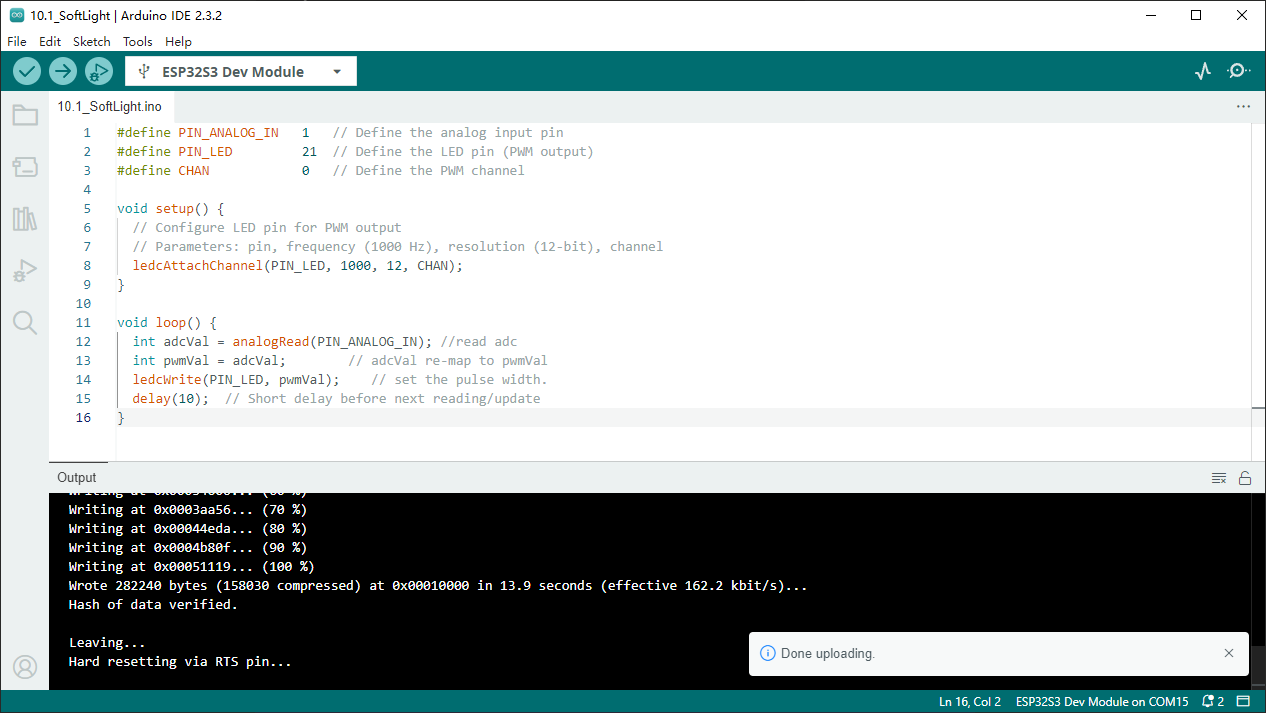
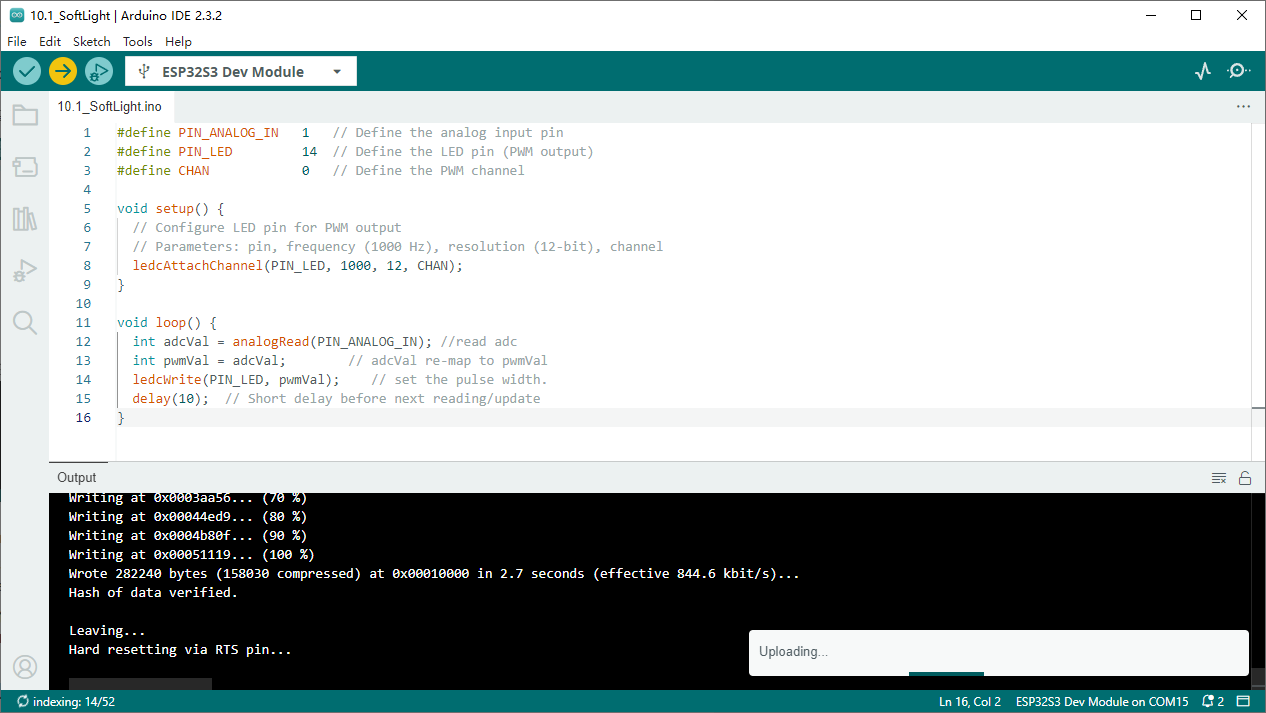
fix some bug

diff --git a/docs/source/1.C_Tutorial/9_touch_sensor.rst b/docs/source/1.C_Tutorial/9_touch_sensor.rst
@@ -56,14 +56,15 @@ Sketch
 ^^^^^^^
 **Sketch_09.2_TouchLamp**
 
-.. image:: img/software/9.2.png
+.. image:: img/phenomenon/9.2.png
     
 Download the code to ESP32-S3 WROOM, open the serial monitor, and set the baud 
 rate to 115200. Touch jumper with hand. As shown in the following figure,
 
 .. image:: img/phenomenon/9.2-1.png
 
-.. image:: img/phenomenon/9.2.png
+
+.. image:: img/software/9.2.png
 
 With a touch pad, the state of the LED changes with each touch, and the detection 
 state of the touch sensor is printed in the serial monitor.
@@ -74,33 +75,41 @@ The following is the program code:
 
 .. code-block:: C
 
-    #define PIN_LED     21
-    #define PRESS_VAL   200000	  //Set a threshold to judge touch
-    #define RELEASE_VAL 60000	    //Set a threshold to judge release
+    #define PIN_LED     21         // Define the LED pin
+    #define TOUCH_PIN   14          // Use a valid touch pin on ESP32-S3
+    #define PRESS_VAL   50000      // This threshold may need adjustment
+    #define RELEASE_VAL 65000      // This threshold may need adjustment
 
-    bool isProcessed = false;
+    bool isProcessed = false;      // Flag to track if touch event has been processed
+
     void setup() {
-    Serial.begin(115200);
-    pinMode(PIN_LED, OUTPUT);
+    Serial.begin(115200);        // Initialize serial communication
+    pinMode(PIN_LED, OUTPUT);    // Set LED pin as output
     }
+
     void loop() {
-    if (touchRead(T14) > PRESS_VAL) {
-        if (!isProcessed) {
-        isProcessed = true;
-        Serial.println("Touch detected! ");
-        reverseGPIO(PIN_LED);
+    int touchValue = touchRead(TOUCH_PIN);  // Read touch sensor value
+    //Serial.println(touchValue);  // Print touch value for debugging
+
+    if (touchValue < PRESS_VAL) {  // Note: Lower value indicates touch
+        if (!isProcessed) {          // If touch hasn't been processed yet
+        isProcessed = true;        // Mark as processed
+        Serial.println("Released!");
+        reverseGPIO(PIN_LED);      // Toggle LED state
         }
     }
-    if (touchRead(T14) < RELEASE_VAL) {
-        if (isProcessed) {
-        isProcessed = false;
-        Serial.println("Released! ");
+    if (touchValue > RELEASE_VAL) {  // Touch released
+        if (isProcessed) {             // If a touch was previously processed
+        isProcessed = false;         // Reset processed flag
+        Serial.println("Touch detected!");
         }
     }
+    
+    delay(50);  // Short delay to prevent too frequent readings
     }
 
     void reverseGPIO(int pin) {
-    digitalWrite(pin, !digitalRead(pin));
+    digitalWrite(pin, !digitalRead(pin));  // Toggle the state of the given pin
     }
 
 

diff --git a/docs/source/1.C_Tutorial/24_tcpip.rst b/docs/source/1.C_Tutorial/24_tcpip.rst
@@ -31,8 +31,8 @@ Install ControlP5.
 
 .. image:: img/other/processing0.png
 
-Open the “Super_Starter_Kit_for_ESP32_S3\Sketches\Sketches\Sketch_24.1_
-WiFiClient\sketchWiFi\sketchWiFi.pde”, and click "Run".
+Open the “Super_Starter_Kit_for_ESP32_S3\\Sketches\\Sketches\\Sketch_24.1_
+WiFiClient\\sketchWiFi\\Processing_wifi.pde”, and click "Run".
 
 .. image:: img/other/processing4.png
 
@@ -76,7 +76,7 @@ Connect
 
 Sketch
 ^^^^^^^
-Before running the Sketch, please open “sketchWiFi.pde.” first, and click “Run”.
+Before running the Sketch, please open “Processing_wifi.pde.” first, and click “Run”.
 
 .. image:: img/software/24.3.png
 
@@ -90,7 +90,7 @@ owing information based on "LOCAL IP" and "LOCAL PORT" in the figure above.
 
 .. image:: img/software/24.1.png
 
-REMOTE_IP needs to be filled in according to the interface of sketchWiFi.pde. 
+REMOTE_IP needs to be filled in according to the interface of Processing_wifi.pde. 
 Taking this tutorial as an example, its REMOTE_IP is “192.168.2.112”. Generally, 
 by default, the ports do not need to change its value.
 
@@ -188,6 +188,7 @@ Connect ESP32-S3 to the computer using a USB cable.
 Sketch
 ^^^^^^^
 Before running Sketch, please modify the contents of the box below first.
+
 **Sketch_24.2_As_Server**
 
 .. image:: img/software/24.2.png
@@ -200,8 +201,8 @@ router, press the reset button as shown below and wait for ESP32-S3 to run again
 
 .. image:: img/phenomenon/24.2.png
 
-Processing： Open the “Super_Starter_Kit_for_ESP32_S3\Sketches\Sketches
-\Sketch_24.2_WiFiServer\ sketchWiFi\sketchWiFi.pde”. Based on the messages printed 
+Processing： Open the “Super_Starter_Kit_for_ESP32_S3\\Sketches\\Sketches
+\\Sketch_24.2_WiFiServer\\sketchWiFi\\Processing_wifi.pde”. Based on the messages printed 
 by the serial monitor, enter correct IP address and serial port in Processing to 
 establish connection and make communication.
 

diff --git a/docs/source/1.C_Tutorial/11_photoresistor.rst b/docs/source/1.C_Tutorial/11_photoresistor.rst
@@ -49,21 +49,25 @@ The following is the program code:
 
 .. code-block:: C
 
-    const byte adcChns[] = {12, 13, 14};    // define the adc channels
-    const byte ledPins[] = {38, 39, 40};    // define led pins
-    const byte pwmChns[] = { 0,  1,  2};    // define the pwm channels
-    int colors[] = {0, 0, 0};               // red, green ,blue values of color.
+    #define PIN_ANALOG_IN   1     // Define the analog input pin
+    #define PIN_LED         14    // Define the LED pin (PWM output)
+    #define CHAN            0     // Define the PWM channel
+    #define LIGHT_MIN       372   // Minimum light sensor value
+    #define LIGHT_MAX       2048  // Maximum light sensor value
+
     void setup() {
-    for (int i = 0; i < 3; i++) {         //setup the pwm channels
-        ledcAttachChannel(ledPins[i], 1000, 8, pwmChns[i]);//1KHz, 8bit(0-255).
-    }
+    // Configure LED pin for PWM output
+    // Parameters: pin, frequency (1000 Hz), resolution (12-bit), channel
+    ledcAttachChannel(PIN_LED, 1000, 12, CHAN);
     }
 
     void loop() {
-    for (int i = 0; i < 3; i++) {
-        colors[i] = map(analogRead(adcChns[i]), 0, 4096, 0, 255); //calculate color value.
-        ledcWrite(ledPins[i], 256 - colors[i]);                   //set color
-    }
-    delay(10);
+    int adcVal = analogRead(PIN_ANALOG_IN); //read adc
+
+    // Constrain ADC value between LIGHT_MIN and LIGHT_MAX, then map to PWM range
+    int pwmVal = map(constrain(adcVal, LIGHT_MIN, LIGHT_MAX), LIGHT_MIN, LIGHT_MAX, 0, 4095);  // adcVal re-map to pwmVal
+
+    ledcWrite(PIN_LED, pwmVal);    // set the pulse width.
+    delay(10);  // Short delay before next reading/update
     }
 

diff --git a/docs/source/1.C_Tutorial/13_joystick.rst b/docs/source/1.C_Tutorial/13_joystick.rst
@@ -43,17 +43,16 @@ The following is the program code:
 
 .. code-block:: C
 
-    int xyzPins[] = {14, 13, 12};   //x,y,z pins
+    int xyzPins[] = {14, 13};   //x,y pins
+
     void setup() {
-    Serial.begin(115200);
-    pinMode(xyzPins[2], INPUT_PULLUP);  //z axis is a button.
+    Serial.begin(115200);  // Initialize serial communication at 115200 baud rate
     }
 
     void loop() {
-    int xVal = analogRead(xyzPins[0]);
-    int yVal = analogRead(xyzPins[1]);
-    int zVal = digitalRead(xyzPins[2]);
-    Serial.printf("X,Y,Z: %d,\t%d,\t%d\n", xVal, yVal, zVal);
-    delay(500);
+    int xVal = analogRead(xyzPins[0]);  // Read X-axis value
+    int yVal = analogRead(xyzPins[1]);  // Read Y-axis value
+    Serial.printf("X,Y: %d,\t%d\n", xVal, yVal);  // Print X and Y values
+    delay(500);  // Wait for 500 milliseconds before next reading
     }
 

diff --git a/docs/source/2.Python_Tutorial/3_led_bar.rst b/docs/source/2.Python_Tutorial/3_led_bar.rst
@@ -30,7 +30,7 @@ process is repeated to achieve the “movements” of flowing water.
 **03.1_FlowingLight**
 Move the program folder “Super_Starter_Kit_for_ESP32_S3/Python/Python_Co
 des” to disk(D) in advance with the path of “D:/Micropython_Codes”. Open “Thonny
-”，click “This computer”  “D:”  “Micropython_Codes”  “03.1_FlowingLight” and d
+”，click “This computer” >> “D:” >> “Micropython_Codes” >> “03.1_FlowingLight” and d
 ouble click “FlowingLight.py”.
 
 .. image:: img/software/3.1.png

diff --git a/docs/source/1.C_Tutorial/17_servo.rst b/docs/source/1.C_Tutorial/17_servo.rst
@@ -118,7 +118,7 @@ The following is the program code:
     #define SERVO_CHN 0   //define the pwm channel
     #define SERVO_FRQ 50  //define the pwm frequency
     #define SERVO_BIT 12  //define the pwm precision
-    #define ADC_PIN   2  //define the adc pin  
+    #define ADC_PIN   14  //define the adc pin  
 
     void servo_set_pin(int pin);
     void servo_set_angle(int angle);

diff --git a/docs/source/1.C_Tutorial/25_camera_web_server.rst b/docs/source/1.C_Tutorial/25_camera_web_server.rst
@@ -9,6 +9,7 @@ web page to access IP address to obtain video and image data.
 Connect
 ^^^^^^^
 Connect ESP32-S3 to the computer using the USB cable.
+
 .. image:: img/0/connect1.png
 
 Sketch
